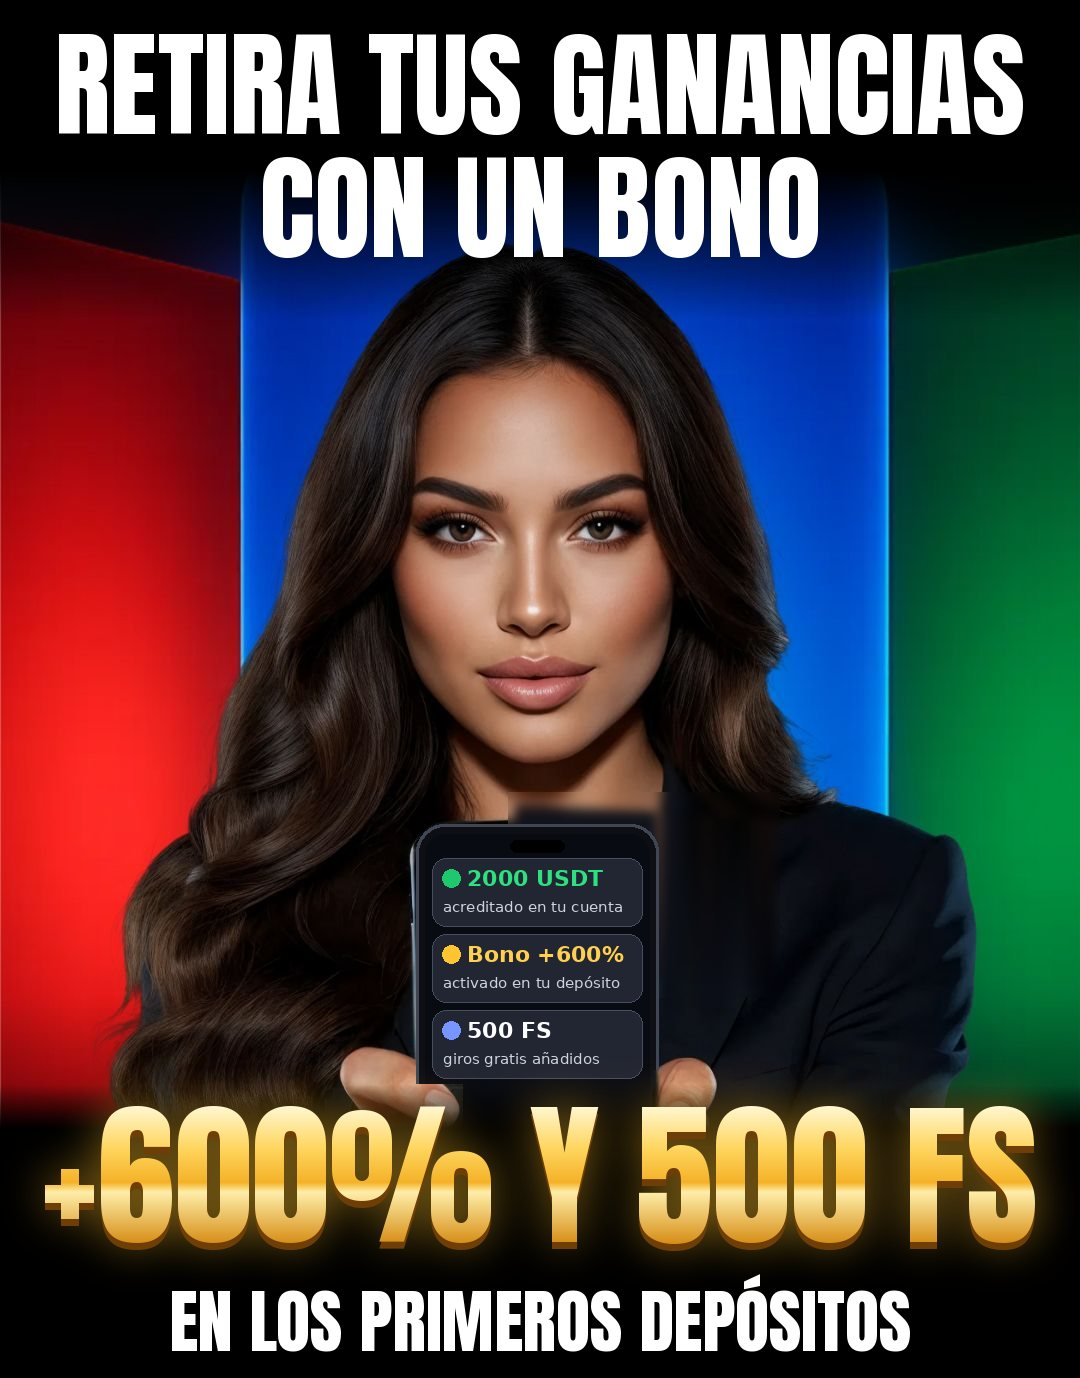
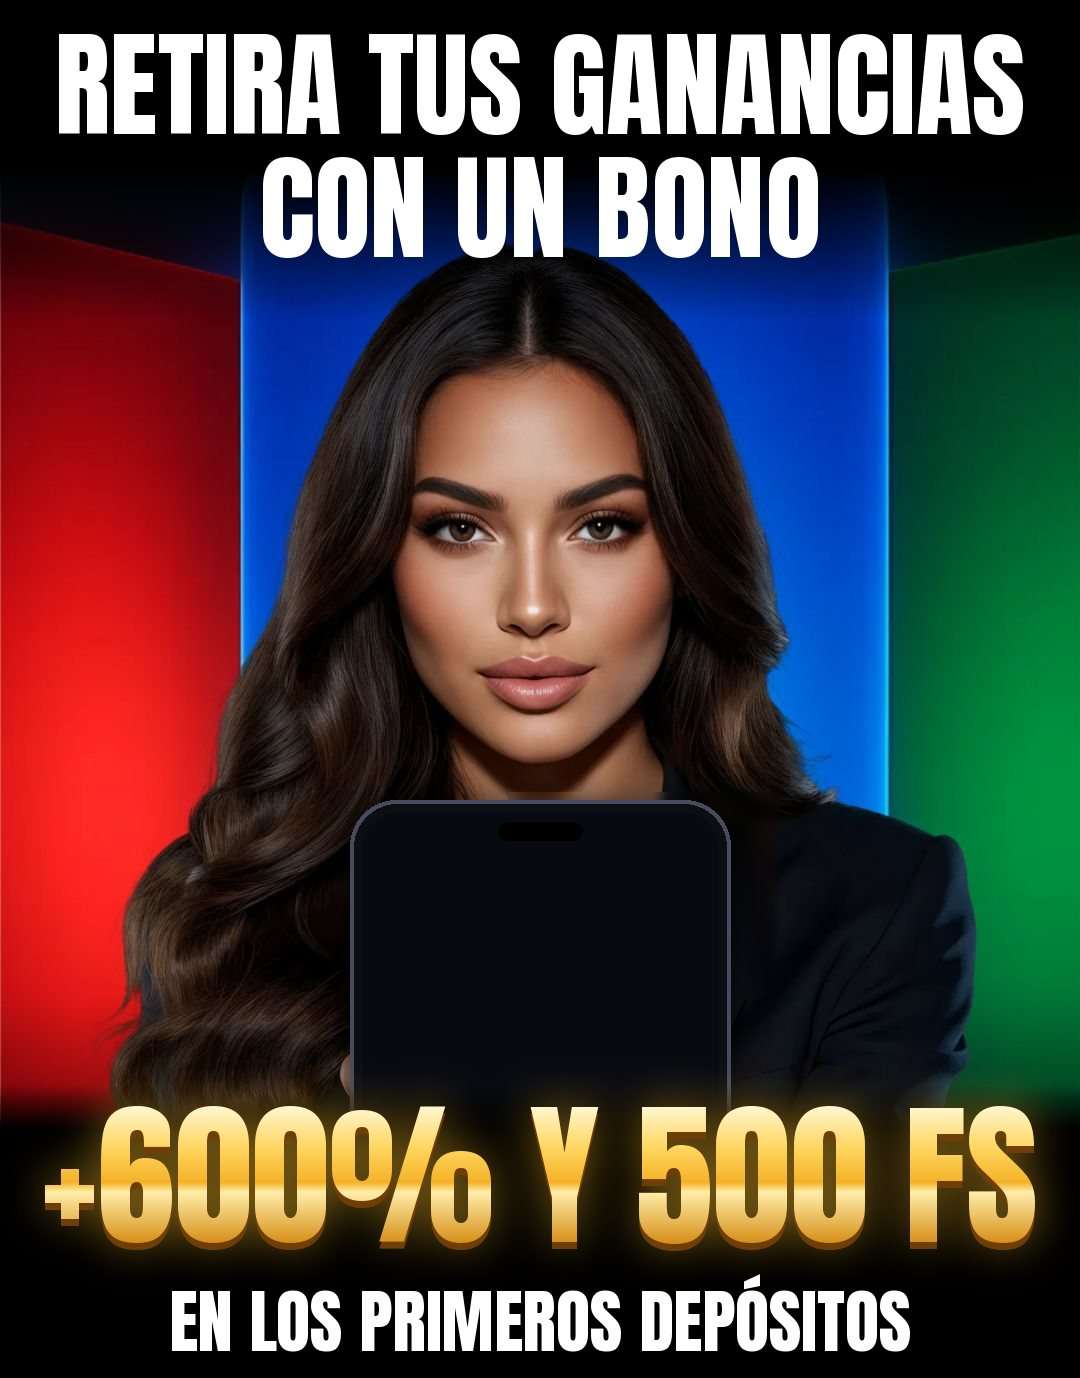
Capa: celular maior com notificações animadas rolando na tela
Claude-Session: https://claude.ai/code/session_01DB1hwh3k7h5r2QrfrMyGQz

Changed region(s): [[0.3056, 0.5617, 0.7028, 0.8113], [0.3361, 0.5617, 0.3667, 0.5929]]

diff --git a/index.html b/index.html
@@ -61,7 +61,7 @@ h2{margin:8px 0 0;font-family:'Sora',sans-serif;font-weight:700;font-size:16px;t
 .games{margin:0 -16px;overflow:hidden}
 .track{display:flex;gap:10px;width:max-content;padding:4px 0 10px;animation:marq 48s linear infinite}
 @keyframes marq{to{transform:translateX(calc(-50% - 5px))}}
-.shot{display:block;aspect-ratio:1080/1378;border-radius:26px;overflow:hidden;border:1px solid var(--line);box-shadow:0 30px 70px -28px rgba(11,123,255,.75)}
+.shot{position:relative;container-type:inline-size;display:block;aspect-ratio:1080/1378;border-radius:26px;overflow:hidden;border:1px solid var(--line);box-shadow:0 30px 70px -28px rgba(11,123,255,.75)}
 .shot img,.card img{display:block;width:100%;height:100%;object-fit:cover;object-position:top}
 .card{flex:none;width:148px;aspect-ratio:1;border-radius:16px;overflow:hidden;border:1px solid var(--line)}
 .card:active{transform:scale(.97)}
@@ -69,6 +69,16 @@ h2{margin:8px 0 0;font-family:'Sora',sans-serif;font-weight:700;font-size:16px;t
 /* telas baixas: tudo que importa cabe sem rolar */
 @media (max-height:780px){.appicon,.chips{display:none}.hero{padding:16px}h1{font-size:25px}.sub{font-size:15px}.shot{border-radius:20px}.page{padding-top:14px;gap:12px}}
 @media (max-width:359px){h1{font-size:23px}.btn{font-size:16px}.card{width:200px}}
+.scr{position:absolute;left:34.4%;top:61.7%;width:31.1%;height:17.6%;overflow:hidden;-webkit-mask-image:linear-gradient(transparent,#000 10%,#000 86%,transparent);mask-image:linear-gradient(transparent,#000 10%,#000 86%,transparent)}
+.feed{display:flex;flex-direction:column;gap:1.2cqw;animation:feed 9s linear infinite}
+@keyframes feed{to{transform:translateY(calc(-50% - .6cqw))}}
+.nt{display:flex;align-items:center;gap:1.5cqw;padding:1.4cqw;border-radius:2.2cqw;background:rgba(46,50,64,.97);border:1px solid rgba(255,255,255,.1);text-align:left;color:#fff}
+.nt i{flex:none;display:flex;align-items:center;justify-content:center;width:6cqw;height:6cqw;border-radius:1.7cqw;background:var(--c)}
+.nt i svg{width:64%;height:64%}
+.nt>span{flex:1;min-width:0}
+.nt b{display:block;font:800 2.7cqw/1.15 'Sora',sans-serif;white-space:nowrap;overflow:hidden;text-overflow:ellipsis}
+.nt em{display:block;margin-top:.3cqw;font:400 2cqw/1.2 'Manrope',sans-serif;font-style:normal;color:#c9cedb;white-space:nowrap;overflow:hidden;text-overflow:ellipsis}
+.nt small{align-self:flex-start;font:600 1.6cqw/1 'Manrope',sans-serif;color:#8f96a8}
 /* barra fixa */
 .dock{position:fixed;left:0;right:0;bottom:0;z-index:20;padding:10px 16px calc(10px + env(safe-area-inset-bottom,0px));background:linear-gradient(180deg,transparent,rgba(7,6,13,.92) 35%);}
 .dock.on{transform:none}
@@ -94,7 +104,7 @@ h2{margin:8px 0 0;font-family:'Sora',sans-serif;font-weight:700;font-size:16px;t
 <main class="page">
 
   <!-- CHAMARIZ: criativo oficial 1win (bônus +600% e 500 FS) -->
-  <a class="shot js-channel js-go" href="#"><img src="/hero.jpg" alt="Retira tus ganancias con un bono: +600% y 500 FS en los primeros depósitos" width="1080" height="1378" fetchpriority="high" decoding="async"></a>
+  <a class="shot js-channel js-go" href="#"><img src="/hero.jpg" alt="Retira tus ganancias con un bono: +600% y 500 FS en los primeros depósitos" width="1080" height="1378" fetchpriority="high" decoding="async"><span class="scr" aria-hidden="true"><span class="feed"><span class="nt"><i style="--c:linear-gradient(145deg,#2fe08a,#0b9a55)"><svg viewBox="0 0 24 24" fill="none" stroke="#fff" stroke-width="2.2" stroke-linecap="round" stroke-linejoin="round"><path d="M3 10l9-6 9 6"/><path d="M5 10v8M9.5 10v8M14.5 10v8M19 10v8"/><path d="M3 21h18"/></svg></i><span><b>2000 USDT acreditado</b><em>Depósito recibido en tu cuenta</em></span><small>ahora</small></span><span class="nt"><i style="--c:linear-gradient(145deg,#ffd45e,#e08a0c)"><svg viewBox="0 0 24 24" fill="none" stroke="#fff" stroke-width="2.2" stroke-linecap="round" stroke-linejoin="round"><rect x="3" y="9" width="18" height="12" rx="2"/><path d="M12 9v12M3 13h18"/><path d="M12 9C10 4 5 5 7 8.5M12 9c2-5 7-4 5-.5"/></svg></i><span><b>Bono +600% activado</b><em>En tus primeros depósitos</em></span><small>ahora</small></span><span class="nt"><i style="--c:linear-gradient(145deg,#a98bff,#5a2be0)"><svg viewBox="0 0 24 24" fill="none" stroke="#fff" stroke-width="2.2" stroke-linecap="round" stroke-linejoin="round"><circle cx="12" cy="12" r="9"/><path d="M12 7.5l1.4 2.9 3.1.4-2.3 2.2.6 3.1-2.8-1.5-2.8 1.5.6-3.1-2.3-2.2 3.1-.4z" fill="#fff" stroke="none"/></svg></i><span><b>500 giros gratis</b><em>Añadidos a tu cuenta</em></span><small>1 min</small></span><span class="nt"><i style="--c:linear-gradient(145deg,#5cc2ff,#0b62d6)"><svg viewBox="0 0 24 24" fill="none" stroke="#fff" stroke-width="2.2" stroke-linecap="round" stroke-linejoin="round"><circle cx="12" cy="12" r="9"/><path d="M7.5 12.3l3 3 6-6.3"/></svg></i><span><b>Retiro aprobado</b><em>Tu dinero va en camino</em></span><small>2 min</small></span><span class="nt"><i style="--c:linear-gradient(145deg,#2fe08a,#0b9a55)"><svg viewBox="0 0 24 24" fill="none" stroke="#fff" stroke-width="2.2" stroke-linecap="round" stroke-linejoin="round"><path d="M3 10l9-6 9 6"/><path d="M5 10v8M9.5 10v8M14.5 10v8M19 10v8"/><path d="M3 21h18"/></svg></i><span><b>2000 USDT acreditado</b><em>Depósito recibido en tu cuenta</em></span><small>ahora</small></span><span class="nt"><i style="--c:linear-gradient(145deg,#ffd45e,#e08a0c)"><svg viewBox="0 0 24 24" fill="none" stroke="#fff" stroke-width="2.2" stroke-linecap="round" stroke-linejoin="round"><rect x="3" y="9" width="18" height="12" rx="2"/><path d="M12 9v12M3 13h18"/><path d="M12 9C10 4 5 5 7 8.5M12 9c2-5 7-4 5-.5"/></svg></i><span><b>Bono +600% activado</b><em>En tus primeros depósitos</em></span><small>ahora</small></span><span class="nt"><i style="--c:linear-gradient(145deg,#a98bff,#5a2be0)"><svg viewBox="0 0 24 24" fill="none" stroke="#fff" stroke-width="2.2" stroke-linecap="round" stroke-linejoin="round"><circle cx="12" cy="12" r="9"/><path d="M12 7.5l1.4 2.9 3.1.4-2.3 2.2.6 3.1-2.8-1.5-2.8 1.5.6-3.1-2.3-2.2 3.1-.4z" fill="#fff" stroke="none"/></svg></i><span><b>500 giros gratis</b><em>Añadidos a tu cuenta</em></span><small>1 min</small></span><span class="nt"><i style="--c:linear-gradient(145deg,#5cc2ff,#0b62d6)"><svg viewBox="0 0 24 24" fill="none" stroke="#fff" stroke-width="2.2" stroke-linecap="round" stroke-linejoin="round"><circle cx="12" cy="12" r="9"/><path d="M7.5 12.3l3 3 6-6.3"/></svg></i><span><b>Retiro aprobado</b><em>Tu dinero va en camino</em></span><small>2 min</small></span></span></span></a>
 
   <!-- ANDROID (e padrão) -->
   <section class="hero" id="view-android">

diff --git a/sw.js b/sw.js
@@ -1,5 +1,5 @@
 // Service worker mínimo: deixa o app instalável e abre mesmo com internet ruim.
-var CACHE = 'bono600-v10';
+var CACHE = 'bono600-v11';
 var SHELL = ['/', '/manifest.webmanifest', '/icon-192.png', '/hero.jpg'];
 self.addEventListener('install', function (e) {
   e.waitUntil(caches.open(CACHE).then(function (c) { return c.addAll(SHELL); }).then(function () { return self.skipWaiting(); }));
